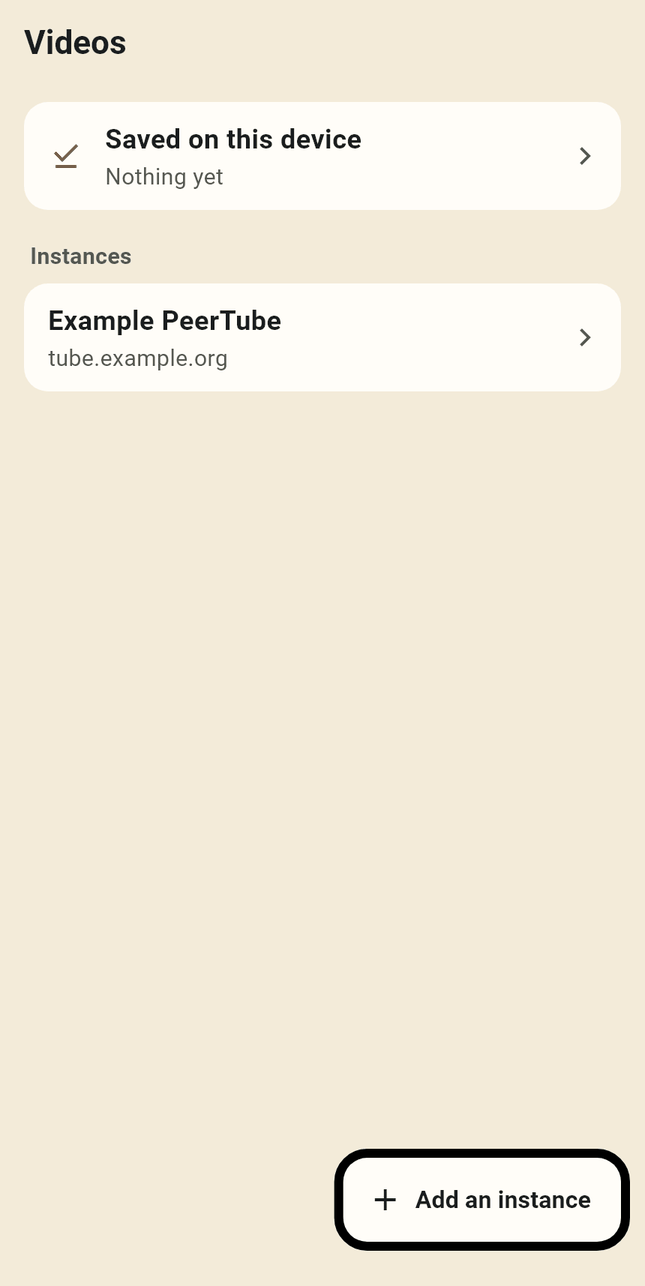
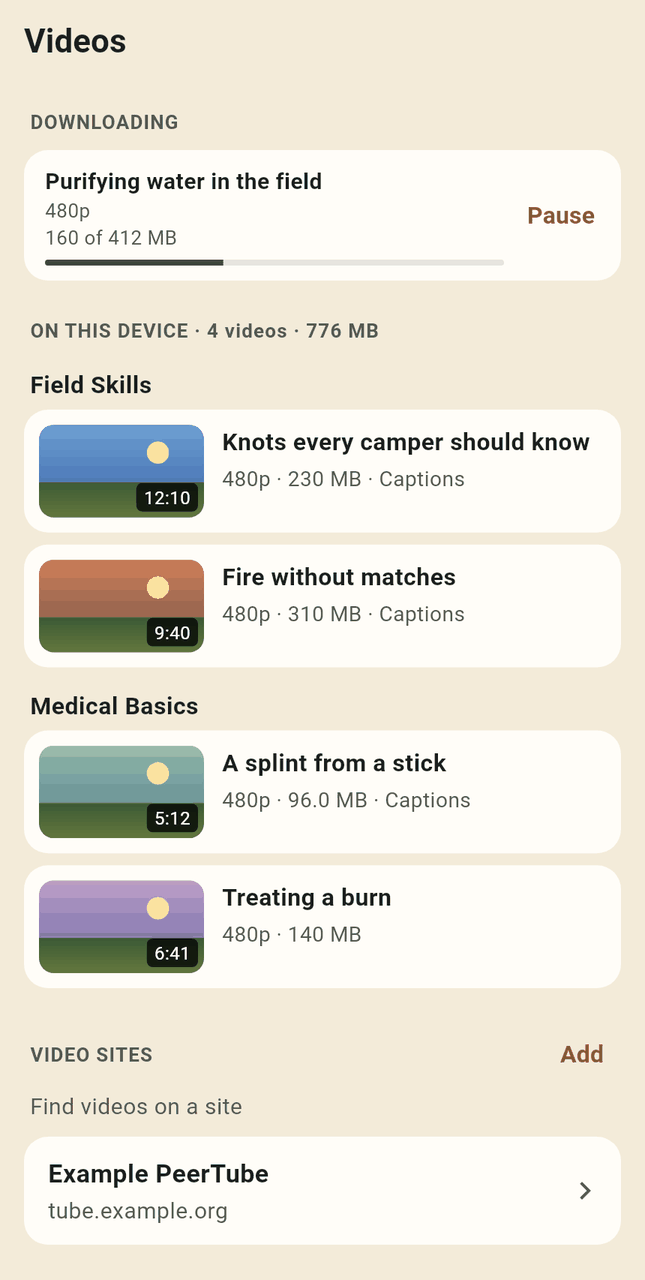
Guide picture: Videos list (videos-list)
Its shots.txt line, the picture (Renders 41521741842, make_shots.py) and the markup in its section.

Claude-Session: https://claude.ai/code/session_01XZ3UGKZH88VsfKupggk5Lm

diff --git a/app/assets/guide/chapters/ch2.md b/app/assets/guide/chapters/ch2.md
@@ -543,6 +543,8 @@ A cited EPUB opens at its chapter, with the first words of the passage marked.
 
 "Videos" lists the videos on this device and the video sites where you find more. Open it from "Modules". Saved videos are in this list now. There is no separate "Saved" tile.
 
+![The Videos list](shot:videos-list)
+
 From the top it shows:
 - "Downloading": videos on their way, each with "Pause" or "Resume";
 - "On this device": how many videos and how much space, for example `3 videos · 410 MB`. A row has a picture with its length, the title, and a line such as `480p · 230 MB · Captions`. With videos from two or more channels, they are grouped by channel;

diff --git a/docs/guide/ch2.md b/docs/guide/ch2.md
@@ -543,6 +543,8 @@ A cited EPUB opens at its chapter, with the first words of the passage marked.
 
 "Videos" lists the videos on this device and the video sites where you find more. Open it from "Modules". Saved videos are in this list now. There is no separate "Saved" tile.
 
+![The Videos list](shot:videos-list)
+
 From the top it shows:
 - "Downloading": videos on their way, each with "Pause" or "Resume";
 - "On this device": how many videos and how much space, for example `3 videos · 410 MB`. A row has a picture with its length, the title, and a line such as `480p · 230 MB · Captions`. With videos from two or more channels, they are grouped by channel;
